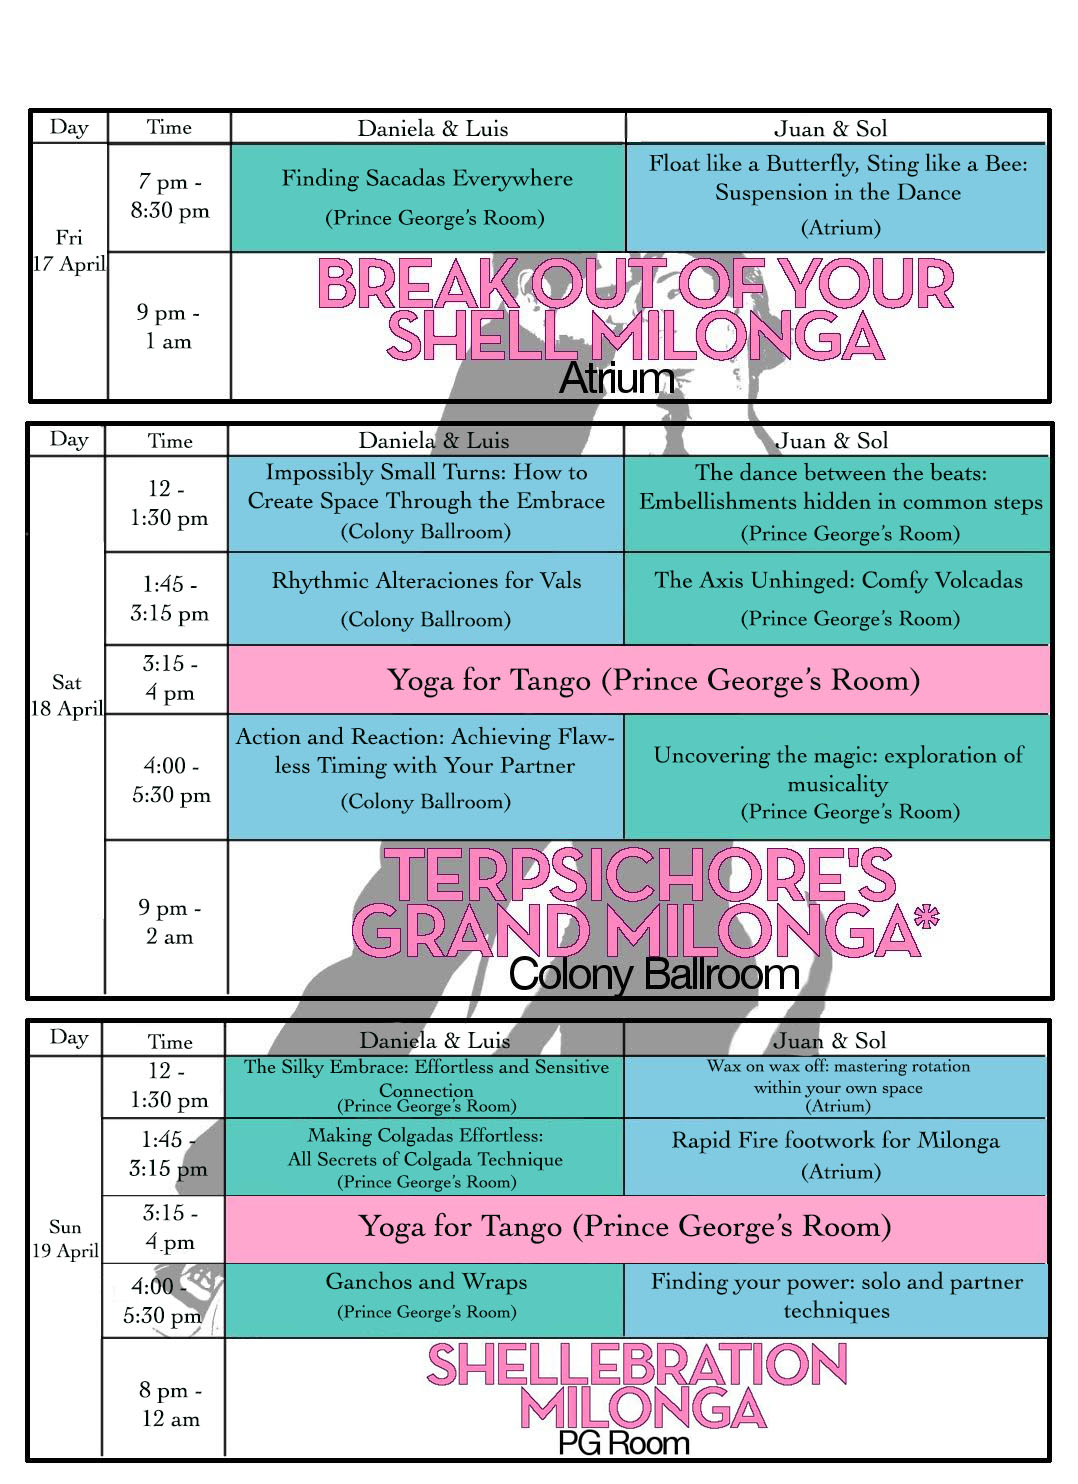
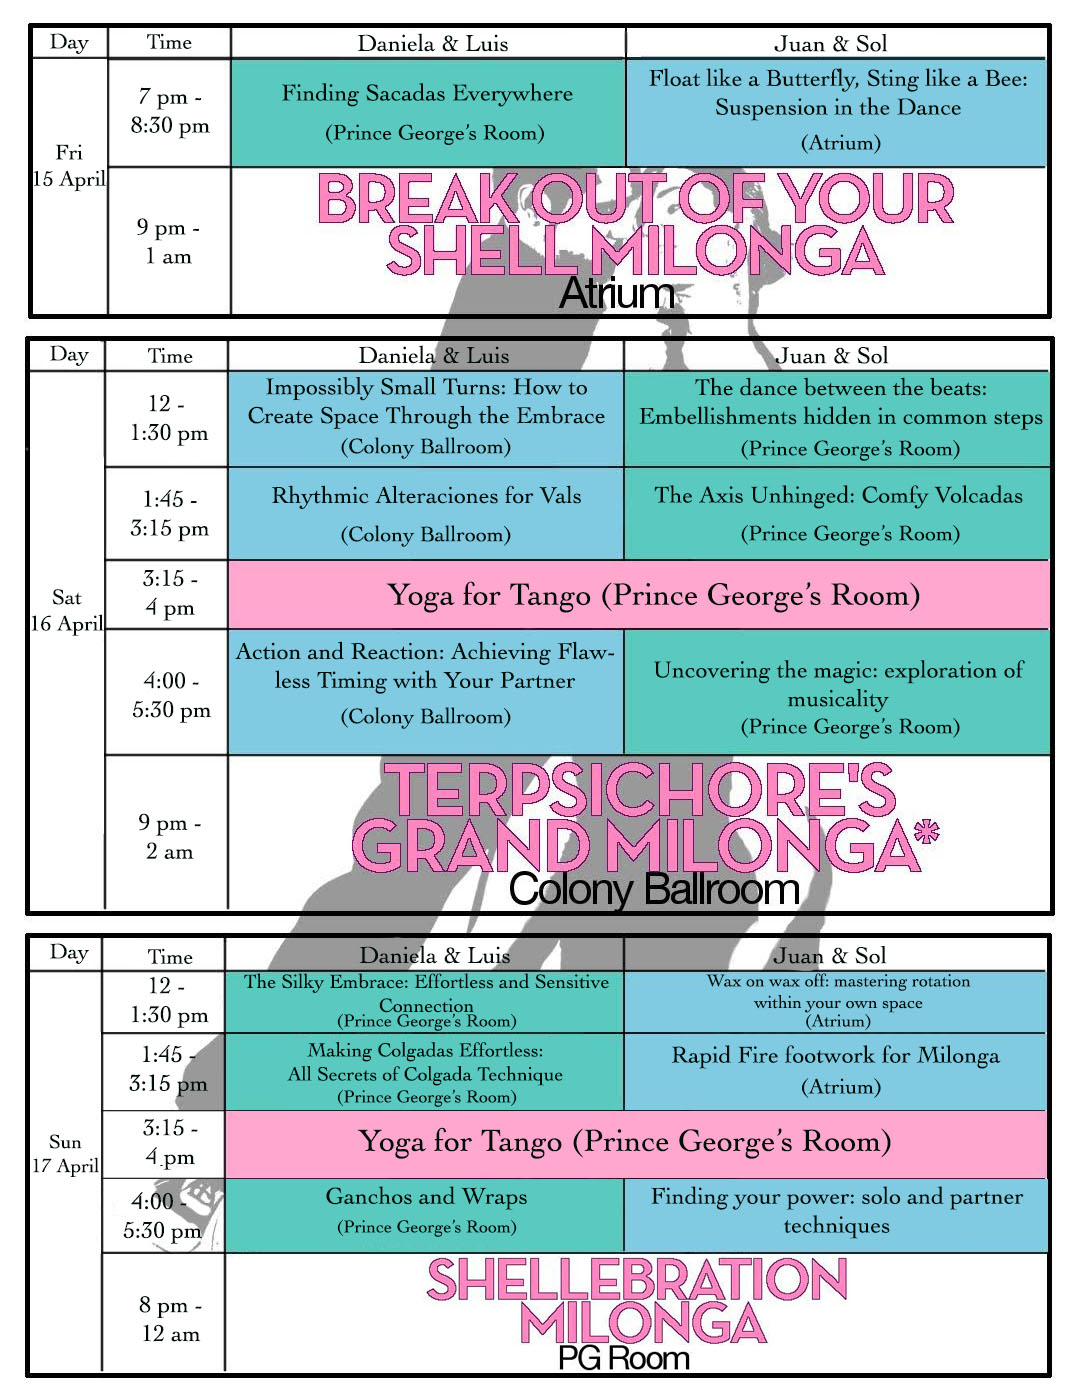
updated schedule to correct dates and reg page for refund policy and temporary downing of registration

diff --git a/register.html b/register.html
@@ -75,9 +75,9 @@ Released   : 20130731
                     </div>
     <div class="bottom_divider">
   <div style="text-align: center ;">
-         <div class="button"><a href="registration.html" target="_blank">Register now!</a></div>
-           <!-- <div>Registration coming soon!</div> -->
-        </div>
+<!--         <div class="button"><a href="registration.html" target="_blank">Register now!</a></div>-->
+            <div><br>Registration will be back shortly!</div> 
+<!--        </div>-->
         <br>
         </div>
      <div>
@@ -104,44 +104,52 @@ Released   : 20130731
                        <li>A $5 fee will be incured per schedule change: addition; removal; or switch, made.</li>
                        <li>Schedule changes can only be made if available spaces for leader/follower role is available in said workshop.</li>
                        <li>Changes to partner passes must include both partners and will incur a $7.50 charge.</li>
-                    </p>
+                    
                 
     </div>
     <div class="bottom_divider">
         <br>
         <h2 class="title" id='refund-policy' style="margin-bottom: 10px;">Refund Policy</h2>
-                    <pa>
+                    <p>
                         All refunds incur a cancellation fee, of amount depending on the request date:
                     </p>
-                    <TABLE WIDTH=600 BORDER=1 BORDERCOLOR="#000000" CELLPADDING=4 CELLSPACING=0 align="center">
+                   <TABLE WIDTH=600 BORDER=1 BORDERCOLOR="#000000" CELLPADDING=4 CELLSPACING=0 align="center">
                         <COL WIDTH=379>
                         <COL WIDTH=379>
+                            <COL WIDTH=379>
                         <TR VALIGN=TOP>
                             <td class="center" WIDTH=379>Date of Refund Request</td>
                             <td class="center">Cancellation fee</td>
+                            <td class="center">Grace Period</td>
                         </TR>
                         <TR VALIGN=TOP>
-                            <td class="center">On or before March 15</td>
+                            <td class="center">On or before March 17</td>
                             <td class="center">5.00%</td>
+                            <td class="center">48hrs</td>
                         </TR>
                         <TR VALIGN=TOP>
-                            <td class="center">March 16 - 29</td>
+                            <td class="center">March 18 - 31</td>
                             <td class="center">10.00%</td>
+                            <td class="center">48hrs</td>
+
                         </TR>
                         <TR VALIGN=TOP>
-                            <td class="center">March 30 - April 4</td>
+                            <td class="center">April 1 - April 7</td>
                             <td class="center">20.00%</td>
+                            <td class="center">24hrs</td>
+
                         </TR>
                         <TR VALIGN=TOP>
                             <td class="center">After April 4</td>
                             <td class="center">No refunds</td>
+                            <td class="center">No grace period</td>
+
                         </TR>
                     </TABLE>
                     <br/>
                     <p>
-                        We provide a 24 hour grace period after purchase of a pass, during which you will receive
-                        a full refund (minus the transaction fee). This
-                        grace period does not apply to purchases on or after April 5.
+                        We provide a 48hr grace period after purchase of a pass dependin on when the pass is purchased, during which you will receive
+                        a full refund (minus the transaction fee). This grace period reduces to 24hrs on April 1st and is not applicable after April 4th.
                     </p>
                 </div>
                         <div class="bottom_divider">
@@ -151,7 +159,7 @@ Released   : 20130731
                         <li>The Terrapin Tango Festival has the right to deny entry to any participant deemed a danger to the safety, phyiscal or otherwise, of other participants.</li>
                         <li>By purchasing or accepting entry into any event held by the Terrapin Tango Festival you accept all risk incurred by the activies at said events.</li>
                         <li>The Terrapin Tango Festival has the right to make judgement on the eligability of any individual for any discount to their entry fee, including but not limited to the discount for being a student. If discounts are deemed inapplicable on pre-registration, the additional charges will be due immediately plus a 5% surcharge.</li>
-                            </p>
+                            
                             
                         </div>
     </div>
